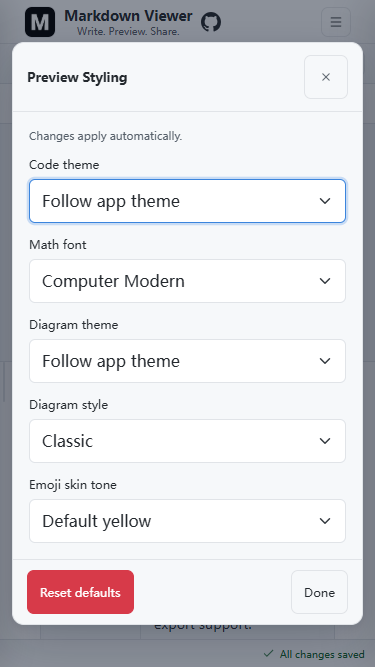
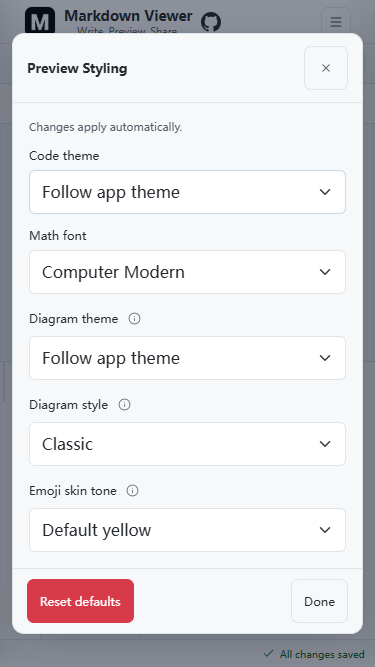
feat(settings): add focused hints for preview styling options

diff --git a/desktop-app/resources/js/script.js b/desktop-app/resources/js/script.js
@@ -24168,10 +24168,76 @@ ${selector} .arrowheadPath {
     if (selectEmojiSkinTone && settings.emojiSkinTone) selectEmojiSkinTone.value = settings.emojiSkinTone;
   }
 
+  const visualSettingHints = [];
+
+  function hideVisualSettingHints() {
+    visualSettingHints.forEach(hint => hint.hide());
+  }
+
+  function initializeVisualSettingHints() {
+    if (visualSettingHints.length || !window.bootstrap?.Tooltip) return;
+    visualSettingsModal.querySelectorAll('[data-setting-help]').forEach(button => {
+      const help = document.getElementById(button.dataset.settingHelp);
+      const tooltip = new bootstrap.Tooltip(button, {
+        title: () => help.textContent.trim(),
+        container: visualSettingsModal,
+        customClass: 'visual-setting-tooltip',
+        placement: 'top',
+        trigger: 'manual',
+        animation: false
+      });
+      let hideTimer;
+      const hide = () => {
+        clearTimeout(hideTimer);
+        tooltip.hide();
+      };
+      const show = () => {
+        clearTimeout(hideTimer);
+        if (button.hasAttribute('aria-describedby')) return;
+        hideVisualSettingHints();
+        tooltip.show();
+      };
+      const scheduleHide = () => {
+        clearTimeout(hideTimer);
+        hideTimer = setTimeout(() => {
+          const tip = document.getElementById(button.getAttribute('aria-describedby'));
+          if (document.activeElement !== button && !button.matches(':hover') && !tip?.matches(':hover')) hide();
+        }, 120);
+      };
+      visualSettingHints.push({ hide });
+      button.addEventListener('mouseenter', show);
+      button.addEventListener('mouseleave', scheduleHide);
+      button.addEventListener('focus', show);
+      button.addEventListener('blur', scheduleHide);
+      button.addEventListener('click', () => {
+        button.focus();
+        show();
+      });
+      button.addEventListener('inserted.bs.tooltip', () => {
+        const tip = document.getElementById(button.getAttribute('aria-describedby'));
+        tip.addEventListener('mouseenter', () => clearTimeout(hideTimer));
+        tip.addEventListener('mouseleave', scheduleHide);
+      });
+    });
+    visualSettingsModal.addEventListener('keydown', event => {
+      if (event.key === 'Escape' && visualSettingsModal.querySelector('.visual-setting-tooltip.show')) {
+        event.preventDefault();
+        event.stopImmediatePropagation();
+        hideVisualSettingHints();
+      }
+    }, true);
+    visualSettingsModal.addEventListener('pointerdown', event => {
+      if (!event.target.closest('.visual-setting-info, .visual-setting-tooltip')) hideVisualSettingHints();
+    });
+    visualSettingsModal.querySelector('.visual-settings-body').addEventListener('scroll', hideVisualSettingHints);
+  }
+
   function openVisualSettingsModal(opener) {
     if (!visualSettingsModal) return;
+    hideVisualSettingHints();
     populateVisualSettingsOptions();
     syncVisualSettingsUI();
+    initializeVisualSettingHints();
     openAppModal(visualSettingsModal, {
       focusTarget: selectHljsTheme,
       returnFocus: opener || document.activeElement,
@@ -24180,6 +24246,7 @@ ${selector} .arrowheadPath {
   }
 
   function closeVisualSettingsModal() {
+    hideVisualSettingHints();
     if (visualSettingsModal) closeAppModal(visualSettingsModal);
   }
 

diff --git a/script.js b/script.js
@@ -24168,10 +24168,76 @@ ${selector} .arrowheadPath {
     if (selectEmojiSkinTone && settings.emojiSkinTone) selectEmojiSkinTone.value = settings.emojiSkinTone;
   }
 
+  const visualSettingHints = [];
+
+  function hideVisualSettingHints() {
+    visualSettingHints.forEach(hint => hint.hide());
+  }
+
+  function initializeVisualSettingHints() {
+    if (visualSettingHints.length || !window.bootstrap?.Tooltip) return;
+    visualSettingsModal.querySelectorAll('[data-setting-help]').forEach(button => {
+      const help = document.getElementById(button.dataset.settingHelp);
+      const tooltip = new bootstrap.Tooltip(button, {
+        title: () => help.textContent.trim(),
+        container: visualSettingsModal,
+        customClass: 'visual-setting-tooltip',
+        placement: 'top',
+        trigger: 'manual',
+        animation: false
+      });
+      let hideTimer;
+      const hide = () => {
+        clearTimeout(hideTimer);
+        tooltip.hide();
+      };
+      const show = () => {
+        clearTimeout(hideTimer);
+        if (button.hasAttribute('aria-describedby')) return;
+        hideVisualSettingHints();
+        tooltip.show();
+      };
+      const scheduleHide = () => {
+        clearTimeout(hideTimer);
+        hideTimer = setTimeout(() => {
+          const tip = document.getElementById(button.getAttribute('aria-describedby'));
+          if (document.activeElement !== button && !button.matches(':hover') && !tip?.matches(':hover')) hide();
+        }, 120);
+      };
+      visualSettingHints.push({ hide });
+      button.addEventListener('mouseenter', show);
+      button.addEventListener('mouseleave', scheduleHide);
+      button.addEventListener('focus', show);
+      button.addEventListener('blur', scheduleHide);
+      button.addEventListener('click', () => {
+        button.focus();
+        show();
+      });
+      button.addEventListener('inserted.bs.tooltip', () => {
+        const tip = document.getElementById(button.getAttribute('aria-describedby'));
+        tip.addEventListener('mouseenter', () => clearTimeout(hideTimer));
+        tip.addEventListener('mouseleave', scheduleHide);
+      });
+    });
+    visualSettingsModal.addEventListener('keydown', event => {
+      if (event.key === 'Escape' && visualSettingsModal.querySelector('.visual-setting-tooltip.show')) {
+        event.preventDefault();
+        event.stopImmediatePropagation();
+        hideVisualSettingHints();
+      }
+    }, true);
+    visualSettingsModal.addEventListener('pointerdown', event => {
+      if (!event.target.closest('.visual-setting-info, .visual-setting-tooltip')) hideVisualSettingHints();
+    });
+    visualSettingsModal.querySelector('.visual-settings-body').addEventListener('scroll', hideVisualSettingHints);
+  }
+
   function openVisualSettingsModal(opener) {
     if (!visualSettingsModal) return;
+    hideVisualSettingHints();
     populateVisualSettingsOptions();
     syncVisualSettingsUI();
+    initializeVisualSettingHints();
     openAppModal(visualSettingsModal, {
       focusTarget: selectHljsTheme,
       returnFocus: opener || document.activeElement,
@@ -24180,6 +24246,7 @@ ${selector} .arrowheadPath {
   }
 
   function closeVisualSettingsModal() {
+    hideVisualSettingHints();
     if (visualSettingsModal) closeAppModal(visualSettingsModal);
   }
 

diff --git a/desktop-app/resources/index.html b/desktop-app/resources/index.html
@@ -587,16 +587,28 @@
                 <select id="visual-setting-math-font" class="form-select visual-setting-select"></select>
               </div>
               <div class="visual-setting-group">
-                <label for="visual-setting-mermaid-theme" class="visual-setting-label">Diagram theme</label>
-                <select id="visual-setting-mermaid-theme" class="form-select visual-setting-select"></select>
+                <div class="visual-setting-label-row">
+                  <label for="visual-setting-mermaid-theme" class="visual-setting-label">Diagram theme</label>
+                  <button type="button" class="visual-setting-info" data-setting-help="visual-setting-mermaid-theme-help" aria-label="About diagram theme"><i class="lucide lucide-info" aria-hidden="true"></i></button>
+                  <span id="visual-setting-mermaid-theme-help" hidden>Only applies to Mermaid diagrams.</span>
+                </div>
+                <select id="visual-setting-mermaid-theme" class="form-select visual-setting-select" aria-describedby="visual-setting-mermaid-theme-help"></select>
               </div>
               <div class="visual-setting-group">
-                <label for="visual-setting-mermaid-look" class="visual-setting-label">Diagram style</label>
-                <select id="visual-setting-mermaid-look" class="form-select visual-setting-select"></select>
+                <div class="visual-setting-label-row">
+                  <label for="visual-setting-mermaid-look" class="visual-setting-label">Diagram style</label>
+                  <button type="button" class="visual-setting-info" data-setting-help="visual-setting-mermaid-look-help" aria-label="About diagram style"><i class="lucide lucide-info" aria-hidden="true"></i></button>
+                  <span id="visual-setting-mermaid-look-help" hidden>Only applies to Mermaid diagrams.</span>
+                </div>
+                <select id="visual-setting-mermaid-look" class="form-select visual-setting-select" aria-describedby="visual-setting-mermaid-look-help"></select>
               </div>
               <div class="visual-setting-group">
-                <label for="visual-setting-emoji-skin-tone" class="visual-setting-label">Emoji skin tone</label>
-                <select id="visual-setting-emoji-skin-tone" class="form-select visual-setting-select"></select>
+                <div class="visual-setting-label-row">
+                  <label for="visual-setting-emoji-skin-tone" class="visual-setting-label">Emoji skin tone</label>
+                  <button type="button" class="visual-setting-info" data-setting-help="visual-setting-emoji-skin-tone-help" aria-label="About emoji skin tone"><i class="lucide lucide-info" aria-hidden="true"></i></button>
+                  <span id="visual-setting-emoji-skin-tone-help" hidden>Only applies to supported emoji shortcodes, such as :wave:, without an explicit skin tone.</span>
+                </div>
+                <select id="visual-setting-emoji-skin-tone" class="form-select visual-setting-select" aria-describedby="visual-setting-emoji-skin-tone-help"></select>
               </div>
             </div>
             <div class="reset-modal-actions visual-settings-actions">

diff --git a/index.html b/index.html
@@ -684,16 +684,28 @@
                 <select id="visual-setting-math-font" class="form-select visual-setting-select"></select>
               </div>
               <div class="visual-setting-group">
-                <label for="visual-setting-mermaid-theme" class="visual-setting-label">Diagram theme</label>
-                <select id="visual-setting-mermaid-theme" class="form-select visual-setting-select"></select>
+                <div class="visual-setting-label-row">
+                  <label for="visual-setting-mermaid-theme" class="visual-setting-label">Diagram theme</label>
+                  <button type="button" class="visual-setting-info" data-setting-help="visual-setting-mermaid-theme-help" aria-label="About diagram theme"><i class="lucide lucide-info" aria-hidden="true"></i></button>
+                  <span id="visual-setting-mermaid-theme-help" hidden>Only applies to Mermaid diagrams.</span>
+                </div>
+                <select id="visual-setting-mermaid-theme" class="form-select visual-setting-select" aria-describedby="visual-setting-mermaid-theme-help"></select>
               </div>
               <div class="visual-setting-group">
-                <label for="visual-setting-mermaid-look" class="visual-setting-label">Diagram style</label>
-                <select id="visual-setting-mermaid-look" class="form-select visual-setting-select"></select>
+                <div class="visual-setting-label-row">
+                  <label for="visual-setting-mermaid-look" class="visual-setting-label">Diagram style</label>
+                  <button type="button" class="visual-setting-info" data-setting-help="visual-setting-mermaid-look-help" aria-label="About diagram style"><i class="lucide lucide-info" aria-hidden="true"></i></button>
+                  <span id="visual-setting-mermaid-look-help" hidden>Only applies to Mermaid diagrams.</span>
+                </div>
+                <select id="visual-setting-mermaid-look" class="form-select visual-setting-select" aria-describedby="visual-setting-mermaid-look-help"></select>
               </div>
               <div class="visual-setting-group">
-                <label for="visual-setting-emoji-skin-tone" class="visual-setting-label">Emoji skin tone</label>
-                <select id="visual-setting-emoji-skin-tone" class="form-select visual-setting-select"></select>
+                <div class="visual-setting-label-row">
+                  <label for="visual-setting-emoji-skin-tone" class="visual-setting-label">Emoji skin tone</label>
+                  <button type="button" class="visual-setting-info" data-setting-help="visual-setting-emoji-skin-tone-help" aria-label="About emoji skin tone"><i class="lucide lucide-info" aria-hidden="true"></i></button>
+                  <span id="visual-setting-emoji-skin-tone-help" hidden>Only applies to supported emoji shortcodes, such as :wave:, without an explicit skin tone.</span>
+                </div>
+                <select id="visual-setting-emoji-skin-tone" class="form-select visual-setting-select" aria-describedby="visual-setting-emoji-skin-tone-help"></select>
               </div>
             </div>
             <div class="reset-modal-actions visual-settings-actions">

diff --git a/desktop-app/resources/styles.css b/desktop-app/resources/styles.css
@@ -14521,6 +14521,59 @@ body.release-notes-active .mobile-stats-container {
   margin: 0;
 }
 
+.visual-setting-label-row {
+  display: flex;
+  align-items: center;
+  gap: 4px;
+  min-width: 0;
+}
+
+.visual-setting-info {
+  display: inline-flex;
+  align-items: center;
+  justify-content: center;
+  flex: 0 0 24px;
+  width: 24px;
+  height: 24px;
+  padding: 0;
+  border: 0;
+  border-radius: 4px;
+  background: transparent;
+  color: var(--text-secondary);
+  font-size: 13px;
+  cursor: help;
+}
+
+.visual-setting-info:hover {
+  background: var(--button-hover);
+  color: var(--text-color);
+}
+
+.visual-setting-info:focus-visible {
+  outline: 2px solid var(--accent-color);
+  outline-offset: 1px;
+}
+
+.visual-setting-tooltip.tooltip {
+  --bs-tooltip-bg: var(--header-bg);
+  --bs-tooltip-color: var(--text-color);
+  --bs-tooltip-max-width: 240px;
+  --bs-tooltip-font-size: var(--ui-font-sm);
+  --bs-tooltip-opacity: 1;
+  padding: 0;
+  border: 0;
+  background: transparent;
+  animation: none;
+  pointer-events: auto;
+}
+
+.visual-setting-tooltip .tooltip-inner {
+  padding: 8px 10px;
+  border: 1px solid var(--border-color);
+  box-shadow: 0 4px 12px rgba(0, 0, 0, 0.12);
+  text-align: start;
+}
+
 .visual-setting-desc {
   font-size: var(--ui-font-sm);
   color: var(--text-secondary);

diff --git a/styles.css b/styles.css
@@ -14521,6 +14521,59 @@ body.release-notes-active .mobile-stats-container {
   margin: 0;
 }
 
+.visual-setting-label-row {
+  display: flex;
+  align-items: center;
+  gap: 4px;
+  min-width: 0;
+}
+
+.visual-setting-info {
+  display: inline-flex;
+  align-items: center;
+  justify-content: center;
+  flex: 0 0 24px;
+  width: 24px;
+  height: 24px;
+  padding: 0;
+  border: 0;
+  border-radius: 4px;
+  background: transparent;
+  color: var(--text-secondary);
+  font-size: 13px;
+  cursor: help;
+}
+
+.visual-setting-info:hover {
+  background: var(--button-hover);
+  color: var(--text-color);
+}
+
+.visual-setting-info:focus-visible {
+  outline: 2px solid var(--accent-color);
+  outline-offset: 1px;
+}
+
+.visual-setting-tooltip.tooltip {
+  --bs-tooltip-bg: var(--header-bg);
+  --bs-tooltip-color: var(--text-color);
+  --bs-tooltip-max-width: 240px;
+  --bs-tooltip-font-size: var(--ui-font-sm);
+  --bs-tooltip-opacity: 1;
+  padding: 0;
+  border: 0;
+  background: transparent;
+  animation: none;
+  pointer-events: auto;
+}
+
+.visual-setting-tooltip .tooltip-inner {
+  padding: 8px 10px;
+  border: 1px solid var(--border-color);
+  box-shadow: 0 4px 12px rgba(0, 0, 0, 0.12);
+  text-align: start;
+}
+
 .visual-setting-desc {
   font-size: var(--ui-font-sm);
   color: var(--text-secondary);

diff --git a/wiki/Configuration.md b/wiki/Configuration.md
@@ -30,6 +30,8 @@ Private mode in Workspace settings pauses new document-state writes for the curr
 
 Open **Workspace settings → Preview Styling** (or **Menu → Settings → Preview Styling** on mobile) to choose a code theme, math font, diagram theme, diagram style, and emoji skin tone. Changes apply automatically and persist in `localStorage` under `mdv.visualSettings.v1`. **Follow app theme** uses the current light or dark appearance. **Reset defaults** restores these five preferences without changing your documents.
 
+The info buttons beside diagram theme, diagram style, and emoji skin tone explain their scope on hover, keyboard focus, or tap. Both diagram controls apply only to Mermaid. Emoji skin tone applies to supported shortcodes such as `:wave:`; existing emoji and explicitly selected tones are preserved.
+
 Math stays available in Computer Modern while an optional font downloads. The latest selection takes effect when it is ready; an unavailable font falls back to Computer Modern. Reset also works during a pending download. To retry an unavailable font, choose another font and select it again. Font and theme assets may require a network connection, including in the desktop app.
 
 ![Preview Styling on desktop](images/preview-appearance-desktop.png)

diff --git a/CHANGELOG.md b/CHANGELOG.md
@@ -5,6 +5,7 @@ Non-code commits (documentation, planning, README-only updates) are excluded.
 
 ## Unreleased
 
+- Added compact info hints for the Mermaid diagram controls and emoji skin tones in Preview Styling, available on hover, keyboard focus, and tap.
 - Simplified **Preview Styling** into five compact controls under Workspace settings and removed its separate navbar shortcut.
 - Kept math rendering available during font downloads, prevented older requests from overriding the latest font selection, and restored fallback, retry, and Reset after font-loading failures.
 
